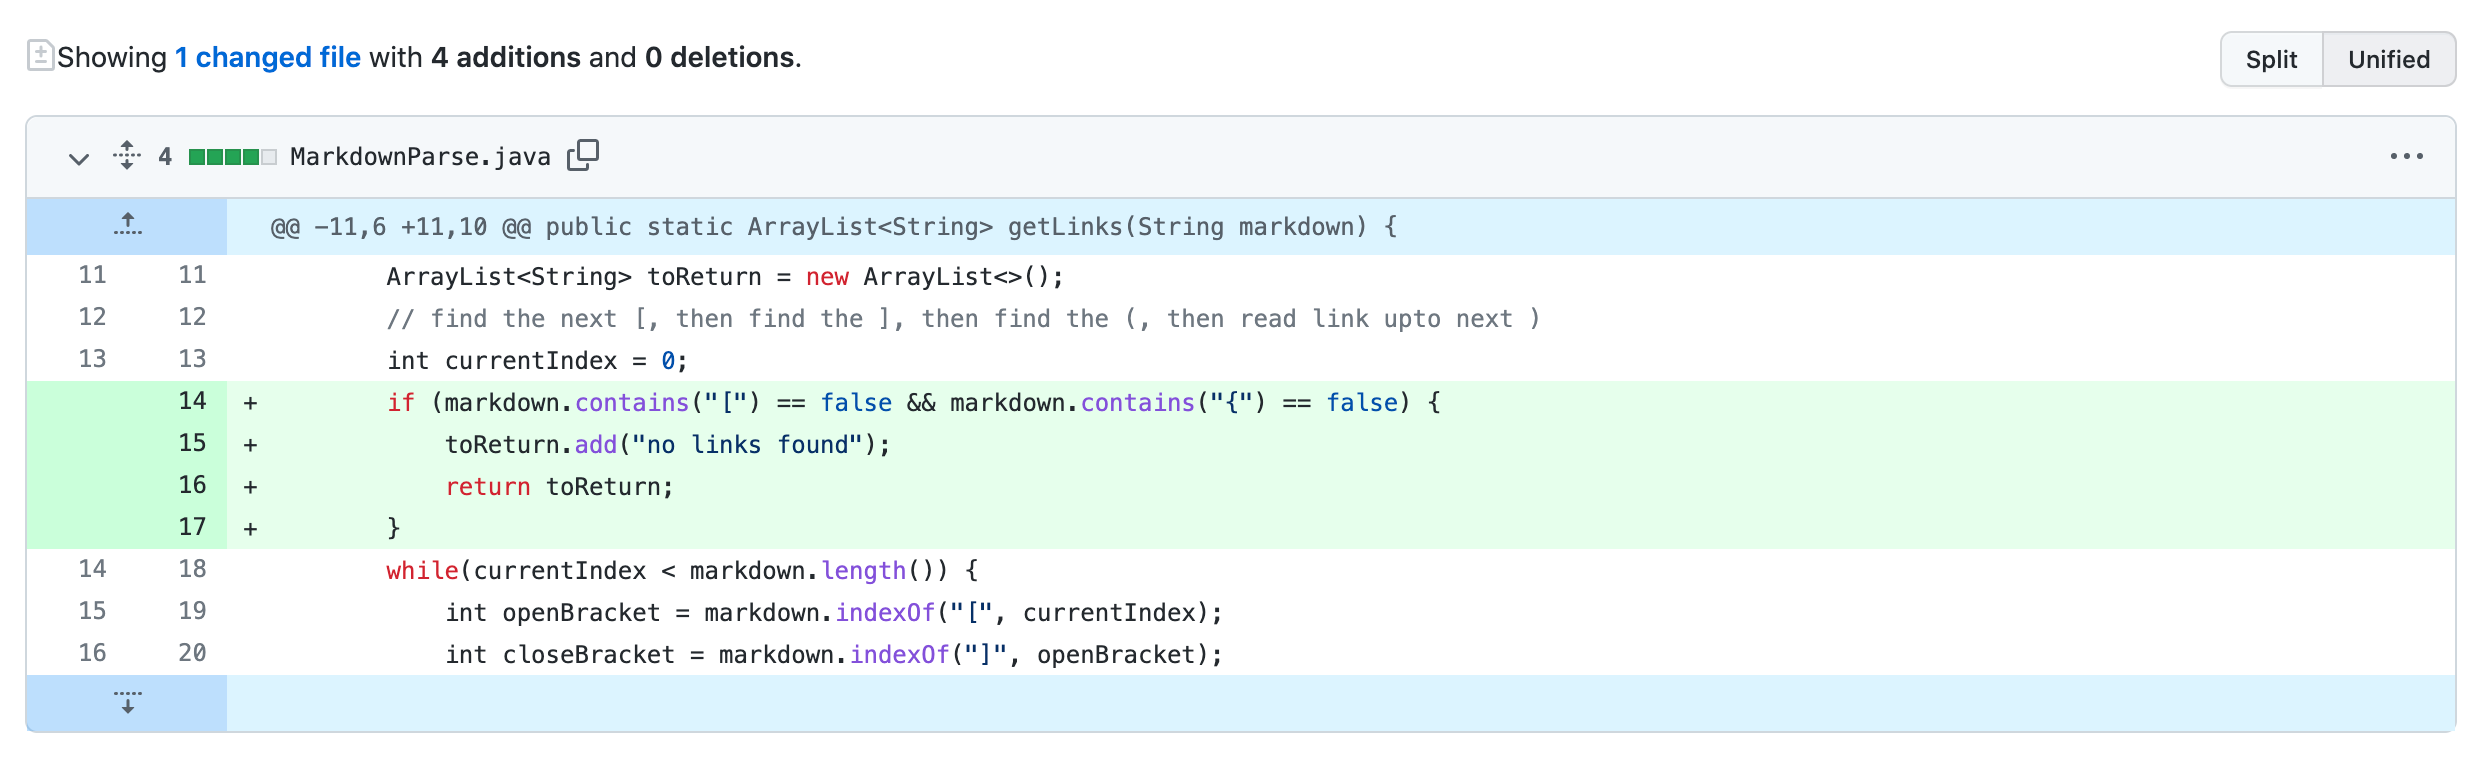
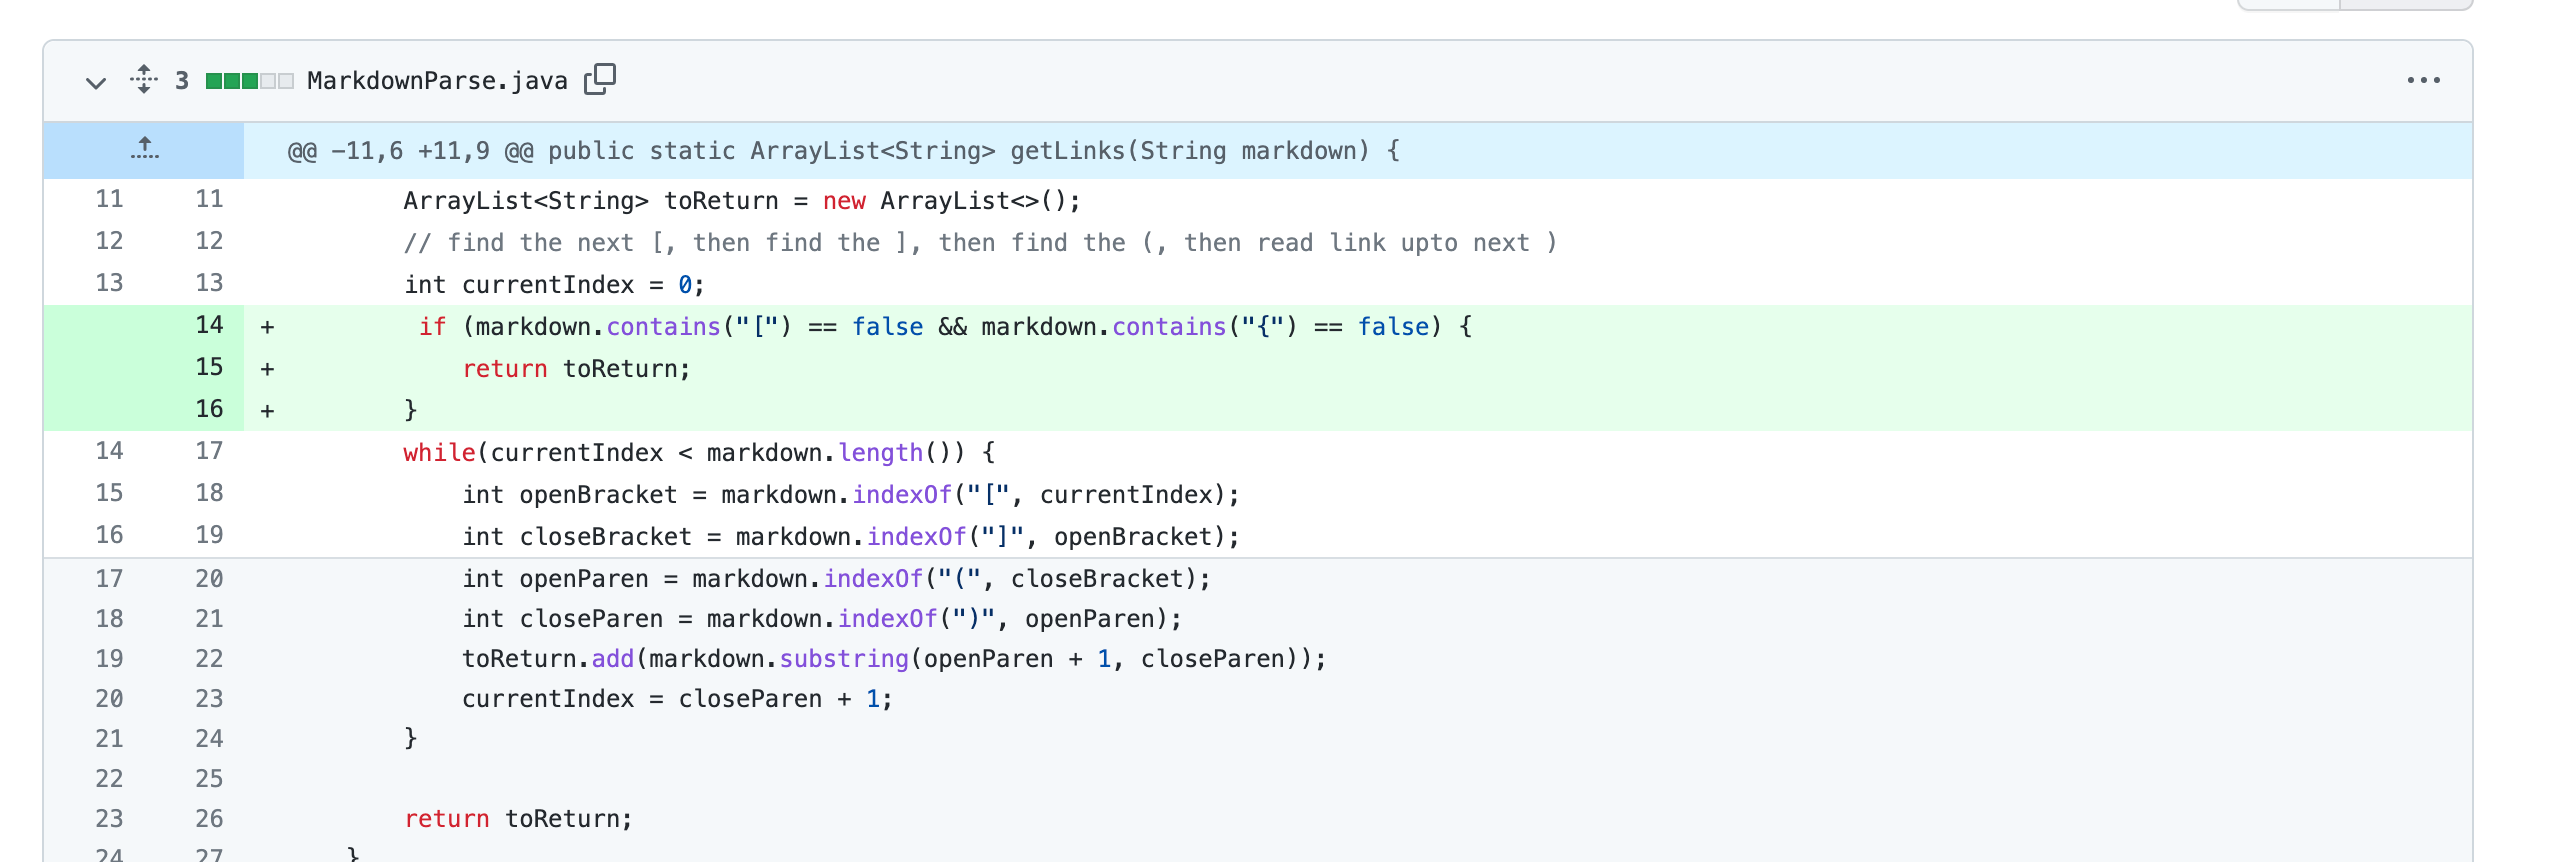
fixed pictures

diff --git a/lab-report-2-week-4.md b/lab-report-2-week-4.md
@@ -3,7 +3,7 @@
 1. Code change difference: ![Image](codechange1.png)
 2. [Link to file with failure-inducing input](https://szreik.github.io/cse15l-lab-reports/example.html)
 3. Symptom of failure-inducing input: ![Image](output1.png)
-4. relationship between the bug, the symptom, and the failure-inducing input
+4. The failure-inducing input is a file with no links. This input causes the symptom of a relationship between the bug, the symptom, and the failure-inducing input
 
 ## Second code change
 1. Code change difference: ![Image](codechange2.png)
